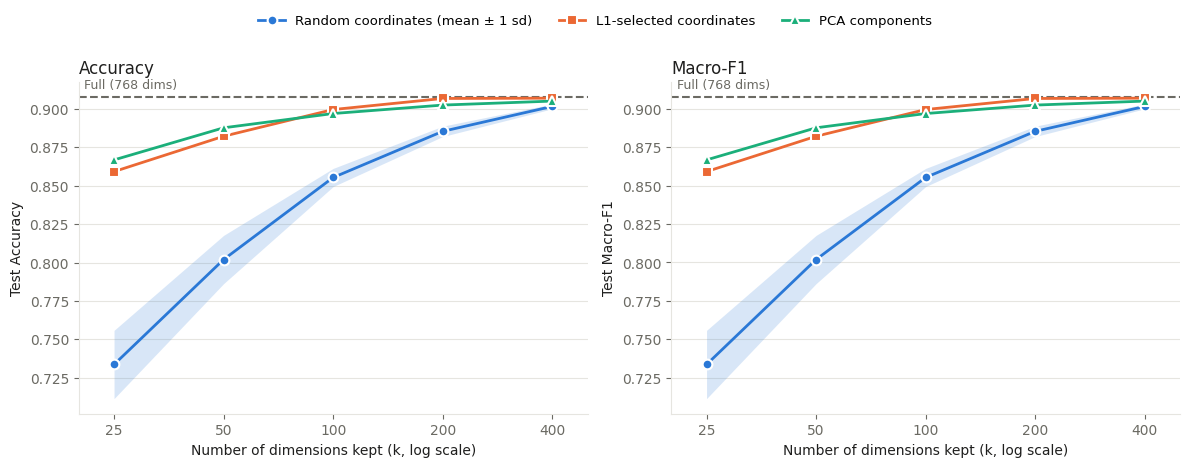
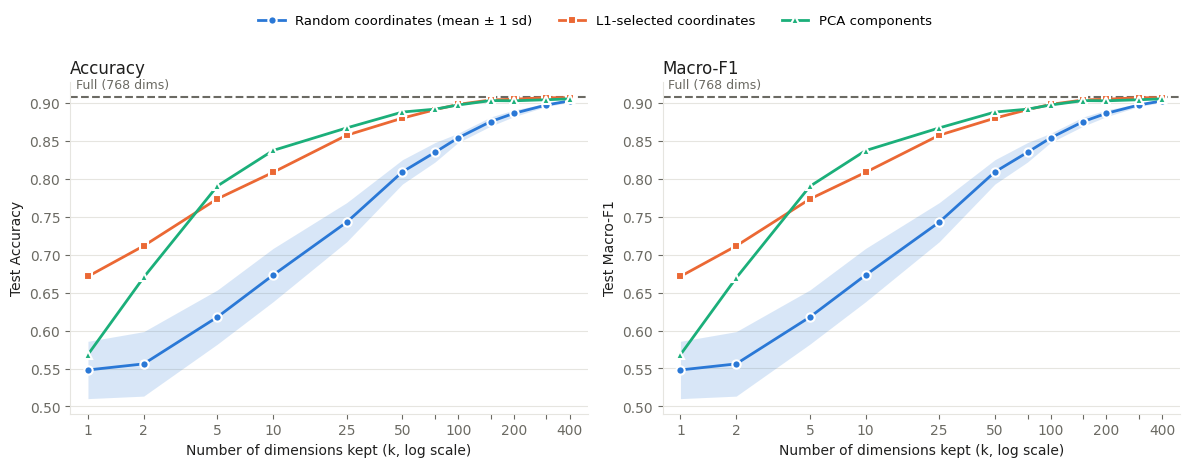
revised page

diff --git a/docs/index.html b/docs/index.html
@@ -210,7 +210,7 @@
   <div class="setup">
     <div><strong>Data</strong>Amazon Review Polarity: 20,000 training and 10,000 test reviews, half positive and half negative.</div>
     <div><strong>Representation</strong>Frozen <code>bert-base-uncased</code>, one 768-dimensional embedding per review. The encoder is never fine-tuned.</div>
-    <div><strong>Comparison</strong>Shrink each embedding to k = 25, 50, 100, 200 or 400 dimensions three different ways, then classify with the same logistic regression.</div>
+    <div><strong>Comparison</strong>Shrink each embedding to k = 1, 2, 5, 10, 25, 50, 75, 100, 150, 200, 300 or 400 dimensions three different ways, then classify with the same logistic regression.</div>
   </div>
 </div>
 
@@ -332,7 +332,7 @@
     <p>Here h<sub>it</sub> is the vector for token t and a<sub>it</sub> is 1 for real tokens and 0 for padding. This gives a 20,000 × 768 training matrix and a 10,000 × 768 test matrix, computed once and reused by every experiment.</p>
 
     <h3>Representation reduction</h3>
-    <p>Each coordinate is first standardized with its training mean and standard deviation, and the same transform is applied to the test set. We then compare reduced sizes k = 25, 50, 100, 200 and 400 against the full 768-dimensional baseline.</p>
+    <p>Each coordinate is first standardized with its training mean and standard deviation, and the same transform is applied to the test set. We then compare reduced sizes k = 1, 2, 5, 10, 25, 50, 75, 100, 150, 200, 300 and 400 against the full 768-dimensional baseline.</p>
     <div class="methods">
       <div class="m random">
         <h4>Random coordinates</h4>
@@ -341,7 +341,7 @@
       </div>
       <div class="m l1">
         <h4>L1-selected coordinates</h4>
-        <p>Fit L1-regularized logistic regression on the training set along a path of 17 penalty values.</p>
+        <p>Fit L1-regularized logistic regression on the training set along a path of 33 penalty values.</p>
         <p>For each k, take the strongest penalty that leaves at least k nonzero coefficients and keep the k with the largest absolute weights.</p>
       </div>
       <div class="m pca">
@@ -379,16 +379,10 @@
     </figure>
 
     <h3>Classification performance</h3>
-    <p>With all 768 dimensions the classifier reaches <b>90.80%</b> test accuracy (macro-F1 0.9080). Accuracy rises with k for every method. Both L1 selection and PCA beat the average random subset at every size, and the gap is largest when k is small: at k = 25, L1 reaches 85.92% against 73.36% for random selection, a 12.56 point advantage. PCA is slightly ahead of L1 at k = 25 and 50; L1 is ahead from k = 100 on.</p>
+    <p>With all 768 dimensions the classifier reaches <b>90.80%</b> test accuracy (macro-F1 0.9080). Accuracy generally rises with k for every method. Both L1 selection and PCA beat the average random subset at every size, and the gap is largest when k is small: at k = 5, L1 reaches 77.34% against 61.77% for random selection, a 15.57 point advantage. L1 is ahead of PCA at k = 1 and 2, PCA is ahead from k = 5 through 75, and L1 is slightly ahead from k = 100 on.</p>
     <figure>
-      <div class="legend">
-        <span><i style="background:var(--random)"></i>Random coordinates, mean ± 1 sd over 20 draws</span>
-        <span><i style="background:var(--l1)"></i>L1-selected coordinates</span>
-        <span><i style="background:var(--pca)"></i>PCA components</span>
-        <span><i class="dash"></i>Full 768</span>
-      </div>
-      <div class="chartwrap"><svg id="chartAcc" role="img" aria-label="Test accuracy against number of dimensions kept for random, L1 and PCA"></svg><div class="tip"></div></div>
-      <figcaption><b>Figure 4.</b> Test accuracy against dimensions kept (log scale). Hover or tap for exact values. Macro-F1 follows the same pattern to within 0.01 points, since the test set is balanced.</figcaption>
+      <img src="assets/fig4_accuracy_vs_k.png" alt="Test accuracy and macro-F1 against dimensions kept for random coordinate selection, L1 selection and PCA, at 12 sizes from k = 1 to 400 on a log scale. Random selection shows mean plus or minus one standard deviation across 20 draws; dashed lines mark the full 768-dimensional baseline.">
+      <figcaption><b>Figure 4.</b> Test accuracy (left) and macro-F1 (right) against dimensions kept (log scale). The shaded band shows ±1 sample standard deviation across 20 random draws. Macro-F1 follows the same overall pattern as accuracy.</figcaption>
     </figure>
     <div class="tablewrap">
       <table id="tableAcc">
@@ -399,7 +393,7 @@
     <p class="tcap">Table 3. Test accuracy (%). Random is mean ± sample sd across 20 subsets. Bold marks the best reduced method at each k.</p>
 
     <h3>Performance loss relative to the full representation</h3>
-    <p>L1 selection keeps most of the baseline performance with far fewer coordinates. At k = 100 it keeps about 13% of the coordinates and loses 0.84 points. At k = 200 it keeps about 26% and is only 0.12 points below the baseline. The gains then flatten: going from 100 to 200 coordinates adds 0.72 points, but going from 200 to 400 adds only 0.02. PCA also closes in, reaching 90.51% with 400 components.</p>
+    <p>L1 selection keeps most of the baseline performance with far fewer coordinates. At k = 100 it keeps about 13% of the coordinates and loses 1.02 points. At k = 200 it keeps about 26% and is 0.34 points below the baseline. The gains then flatten: going from 100 to 200 coordinates adds 0.68 points, while going from 200 to 400 adds 0.19. The best tested L1 result is 90.66% at k = 300, 0.14 points below the baseline. PCA also closes in, reaching 90.51% with 400 components.</p>
     <figure>
       <div class="legend">
         <span><i style="background:var(--random)"></i>Random (mean)</span>
@@ -411,7 +405,7 @@
     </figure>
 
     <h3>Variability across random subsets</h3>
-    <p>Random selection improves from 73.36% at k = 25 to 90.16% at k = 400, and its spread shrinks from a standard deviation of 2.22 points to 0.15. Small random subsets are a gamble on which coordinates you happen to draw; large ones give consistent results that approach the baseline, though they stay below L1 and PCA on average.</p>
+    <p>Random selection improves from 54.81% at k = 1 to 90.25% at k = 400. Its standard deviation is 3.77 points at k = 1, peaks at 4.24 points at k = 2, and then falls to 0.19 points at k = 400. Small random subsets are a gamble on which coordinates you happen to draw; large ones give consistent results that approach the baseline, though they stay below L1 and PCA on average.</p>
     <figure>
       <div class="legend">
         <span><i class="dot" style="background:var(--random)"></i>One random draw (20 per k)</span>
@@ -420,7 +414,7 @@
         <span><i class="dot" style="background:var(--pca)"></i>PCA</span>
       </div>
       <div class="chartwrap"><svg id="chartRuns" role="img" aria-label="Test accuracy of each of the 20 random coordinate subsets at every k, with the L1 and PCA results for comparison"></svg><div class="tip"></div></div>
-      <figcaption><b>Figure 6.</b> Every one of the 20 random draws at each k. The spread narrows as k grows. Even the best of the 20 draws scores below both L1 and PCA at every k, though only by 0.06 points against PCA at k = 400.</figcaption>
+      <figcaption><b>Figure 6.</b> Every one of the 20 random draws at each k. The spread generally narrows as k grows. At k = 1, the best random draw ties L1 and exceeds PCA. From k = 2 through 300, even the best draw is below both methods. At k = 400, the best draw reaches 90.63%, above PCA at 90.51% but just below L1 at 90.65%.</figcaption>
     </figure>
     <div class="tablewrap">
       <table id="tableRange">
@@ -428,7 +422,7 @@
         <tbody></tbody>
       </table>
     </div>
-    <p class="tcap">Table 5 (report appendix). Lowest and highest test accuracy (%) among the 20 random subsets.</p>
+    <p class="tcap">Table 5. Lowest and highest test accuracy (%) among the 20 random subsets.</p>
   </section>
 
   <!-- 4 DISCUSSION -->
@@ -439,14 +433,14 @@
     <ul class="points">
       <li><b>A smaller representation can keep most of the performance, but the choice of coordinates matters.</b> L1 selection beats the average random subset at every size, most of all when k is small, so supervised selection does find coordinates that carry more useful information than an arbitrary subset.</li>
       <li><b>Distributed signal and redundancy coexist.</b> Hundreds of coordinates are individually correlated with sentiment, yet 200 selected ones nearly match the full baseline. That does not make the embeddings sparse or the other coordinates useless; their information may overlap with what is kept. The selected coordinates also depend on the embedding basis, so they are not a universal set of sentiment features.</li>
-      <li><b>PCA is a competitive alternative.</b> It edges out L1 at k = 25 and 50, where packing many coordinates into a few directions helps, while L1 is slightly ahead at larger sizes. PCA keeps variance rather than optimizing for prediction, as Figure 3 shows with PC4 beating PC1. The gaps are small enough that neither method is clearly better in general.</li>
+      <li><b>PCA is a competitive alternative.</b> It outperforms L1 from k = 5 through 75, while L1 leads at k = 1 and 2 and is slightly ahead from k = 100 onward. PCA keeps variance rather than optimizing for prediction, as Figure 3 shows with PC4 beating PC1. The preferred method depends on k; these results do not establish a general winner across tasks.</li>
     </ul>
 
     <h3>Limitations and future work</h3>
     <ul class="points">
       <li>One balanced sample, one frozen BERT model, mean pooling and a linear classifier. Results may differ for other tasks, models or pooling. Exact-text deduplication does not rule out near-duplicate reviews.</li>
       <li>L1 selection and PCA are fitted on the whole training set before cross-validation, so validation scores may be optimistic. A cleaner version would refit standardization, selection and PCA inside each fold.</li>
-      <li>The random-subset spread measures sensitivity to coordinate choice on fixed data, not uncertainty over new samples, and L1 and PCA stability across samples is not assessed. Close scores such as 90.68% and 90.80% should not be read as statistically equivalent.</li>
+      <li>The random-subset spread measures sensitivity to coordinate choice on fixed data, not uncertainty over new samples, and L1 and PCA stability across samples is not assessed. Close scores such as 90.66% and 90.80% should not be read as statistically equivalent.</li>
       <li>Reduction happens after BERT has already run. It shrinks stored features and the classifier, not transformer inference cost.</li>
       <li>Next steps: fix the cross-validation procedure, repeat the analysis on new data samples, add more tasks, and compare test predictions pairwise to measure how uncertain the gaps are.</li>
     </ul>
@@ -455,7 +449,7 @@
   <!-- 5 CONCLUSION -->
   <section class="s" id="conclusion">
     <h2><span class="n">5</span>Conclusion</h2>
-    <p class="conclusion">Frozen BERT embeddings can be shrunk a lot for Amazon Polarity sentiment classification. L1 selection keeps 200 of 768 coordinates and reaches 90.68% accuracy, against 90.80% with all of them. Both L1 selection and PCA beat average random selection at every size tested, with PCA slightly ahead at the smallest sizes. The results support task-specific predictive redundancy and show that informed reduction preserves performance better than removing coordinates at random. They do not establish universal sparsity or an optimal dimension for transformer representations.</p>
+    <p class="conclusion">Frozen BERT embeddings can be shrunk a lot for Amazon Polarity sentiment classification. L1 selection keeps 200 of 768 coordinates and reaches 90.46% accuracy, against 90.80% with all of them; its best tested result is 90.66% at k = 300. Both L1 selection and PCA beat average random selection at every size tested. L1 leads PCA at k = 1 and 2, PCA leads from k = 5 through 75, and L1 is slightly ahead from k = 100 onward. The results support task-specific predictive redundancy and show that informed reduction preserves performance better than removing coordinates at random. They do not establish universal sparsity or an optimal dimension for transformer representations.</p>
   </section>
 
   <!-- REPRODUCE -->
@@ -491,26 +485,30 @@
 
 <script>
 (function () {
-  // ===== Results data (from the notebook run log; add new k values here) =====
+  // ===== Results data from the updated notebook run log =====
   const FULL = 0.9080;
-  const L1  = { 25: 0.8592, 50: 0.8822, 100: 0.8996, 200: 0.9068, 400: 0.9070 };
-  const PCA = { 25: 0.8668, 50: 0.8877, 100: 0.8970, 200: 0.9025, 400: 0.9051 };
+  const L1  = { 1: 0.6713, 2: 0.7115, 5: 0.7734, 10: 0.8083, 25: 0.8572, 50: 0.8797, 75: 0.8908, 100: 0.8978, 150: 0.9036, 200: 0.9046, 300: 0.9066, 400: 0.9065 };
+  const PCA = { 1: 0.5684, 2: 0.6700, 5: 0.7903, 10: 0.8371, 25: 0.8668, 50: 0.8877, 75: 0.8915, 100: 0.8970, 150: 0.9028, 200: 0.9025, 300: 0.9039, 400: 0.9051 };
   const RUNS = {
-    25:  [0.7469,0.6899,0.7486,0.7612,0.7264,0.7419,0.7618,0.7228,0.6833,0.7628,0.7168,0.7354,0.7218,0.7122,0.7515,0.7494,0.7170,0.7391,0.7392,0.7438],
-    50:  [0.8130,0.8066,0.7818,0.8270,0.8189,0.7698,0.8274,0.8108,0.7872,0.7948,0.7849,0.7996,0.8116,0.7855,0.8199,0.8072,0.7993,0.7972,0.7902,0.8060],
-    100: [0.8582,0.8576,0.8588,0.8580,0.8626,0.8573,0.8560,0.8555,0.8546,0.8576,0.8491,0.8523,0.8562,0.8444,0.8614,0.8589,0.8395,0.8525,0.8522,0.8643],
-    200: [0.8866,0.8881,0.8861,0.8871,0.8907,0.8820,0.8843,0.8848,0.8798,0.8882,0.8860,0.8828,0.8888,0.8801,0.8891,0.8807,0.8823,0.8893,0.8827,0.8884],
-    400: [0.8999,0.9032,0.9030,0.9023,0.9039,0.9026,0.8994,0.9018,0.9045,0.9011,0.9002,0.9009,0.9017,0.9008,0.9028,0.8993,0.8997,0.9015,0.9006,0.9034]
+    1: [0.5668,0.6713,0.5413,0.5659,0.5224,0.5074,0.5103,0.5714,0.5364,0.5290,0.5295,0.5548,0.5132,0.5649,0.5361,0.5466,0.5329,0.5974,0.5562,0.5080],
+    2: [0.5442,0.6189,0.5292,0.5639,0.5259,0.6008,0.6119,0.5343,0.4996,0.6555,0.5767,0.5288,0.5224,0.5317,0.5376,0.5893,0.5895,0.5134,0.5089,0.5393],
+    5: [0.5944,0.6733,0.5651,0.6769,0.6166,0.6773,0.6380,0.5869,0.6239,0.6137,0.6331,0.5580,0.6069,0.5751,0.6452,0.5712,0.6082,0.6353,0.6325,0.6226],
+    10: [0.6958,0.7027,0.7069,0.6739,0.6430,0.7013,0.6324,0.6929,0.6229,0.6910,0.7025,0.6559,0.6751,0.6865,0.7003,0.6643,0.6517,0.7163,0.6701,0.5743],
+    25: [0.7071,0.7905,0.7698,0.7532,0.7462,0.7042,0.7185,0.7537,0.7404,0.7306,0.7534,0.7139,0.7461,0.7695,0.7629,0.7839,0.7276,0.7140,0.7546,0.7132],
+    50: [0.8230,0.8086,0.8209,0.8084,0.7955,0.7997,0.8151,0.7927,0.7776,0.8472,0.8151,0.7957,0.8162,0.8228,0.7842,0.8123,0.7955,0.8127,0.8107,0.8245],
+    75: [0.8525,0.8067,0.8462,0.8364,0.8438,0.8183,0.8220,0.8396,0.8280,0.8378,0.8435,0.8341,0.8162,0.8246,0.8353,0.8540,0.8315,0.8539,0.8376,0.8320],
+    100: [0.8393,0.8455,0.8509,0.8543,0.8615,0.8520,0.8527,0.8516,0.8590,0.8597,0.8572,0.8631,0.8494,0.8537,0.8535,0.8487,0.8585,0.8517,0.8483,0.8630],
+    150: [0.8813,0.8754,0.8807,0.8711,0.8735,0.8610,0.8759,0.8751,0.8615,0.8760,0.8806,0.8764,0.8791,0.8723,0.8818,0.8739,0.8775,0.8732,0.8722,0.8851],
+    200: [0.8851,0.8915,0.8785,0.8766,0.8827,0.8857,0.8902,0.8876,0.8847,0.8844,0.8832,0.8894,0.8875,0.8816,0.8850,0.8930,0.8849,0.8881,0.8862,0.8936],
+    300: [0.8978,0.9002,0.8976,0.8958,0.8960,0.8968,0.8960,0.8963,0.8981,0.9000,0.8980,0.8922,0.8949,0.9000,0.8993,0.8985,0.8965,0.8959,0.8953,0.8957],
+    400: [0.8996,0.9048,0.9007,0.9047,0.9013,0.9017,0.9034,0.9010,0.9030,0.9063,0.9011,0.9014,0.9034,0.9039,0.9017,0.9009,0.8993,0.9017,0.9038,0.9053]
   };
   const KS = Object.keys(L1).map(Number).sort((a, b) => a - b);
   const mean = a => a.reduce((s, v) => s + v, 0) / a.length;
   const sd = a => { const m = mean(a); return Math.sqrt(a.reduce((s, v) => s + (v - m) ** 2, 0) / (a.length - 1)); };
-  // Mean and sd come from the notebook's summary.csv (unrounded runs), so they match Table 3 exactly.
-  // The run log above is rounded to 4 decimals and is used for the dots, minimum and maximum.
-  const RAND_SUMMARY = { 25: [0.7336, 0.0222], 50: [0.8019, 0.0157], 100: [0.8554, 0.0059], 200: [0.8854, 0.0034], 400: [0.9016, 0.0015] };
+  // Accuracy is exact to four decimals on the 10,000-review test set.
   const RAND = {}; KS.forEach(k => RAND[k] = {
-    mean: RAND_SUMMARY[k] ? RAND_SUMMARY[k][0] : mean(RUNS[k]),
-    sd: RAND_SUMMARY[k] ? RAND_SUMMARY[k][1] : sd(RUNS[k]),
+    mean: mean(RUNS[k]), sd: sd(RUNS[k]),
     min: Math.min(...RUNS[k]), max: Math.max(...RUNS[k]) });
   window.__RESULTS = { KS, RAND, L1, PCA, FULL };
 
@@ -557,7 +555,8 @@
         el('line', { x1: m.l, x2: W - m.r, y1: yOf(v), y2: yOf(v), stroke: C.grid, 'stroke-width': 1 });
         el('text', { x: m.l - 8, y: yOf(v) + 4, 'text-anchor': 'end', 'font-size': fs, fill: C.ink3 }).textContent = cfg.yFmt(v);
       });
-      KS.forEach(k => el('text', { x: xOf(k), y: H - 24, 'text-anchor': 'middle', 'font-size': fs, fill: C.ink3 }).textContent = k);
+      const labelKs = small ? [1, 5, 25, 100, 400] : (cfg.logLabels ? [1, 2, 5, 10, 25, 50, 100, 200, 400] : KS);
+      KS.filter(k => labelKs.includes(k)).forEach(k => el('text', { x: xOf(k), y: H - 24, 'text-anchor': 'middle', 'font-size': fs, fill: C.ink3 }).textContent = k);
       el('text', { x: m.l + pw / 2, y: H - 4, 'text-anchor': 'middle', 'font-size': fs, fill: C.ink2 }).textContent = cfg.xLabel;
       if (cfg.yTitle) el('text', { x: m.l - 8, y: 14, 'font-size': fs, fill: C.ink2 }).textContent = cfg.yTitle;
       cfg.render(el, { W, H, m, pw, ph, xOf, yOf, fs, small });
@@ -594,38 +593,15 @@
     lab.forEach(o => el('text', { x: xOf(KS[KS.length - 1]) + 10, y: o.y, 'font-size': fs, fill: C.ink2 }).textContent = o.t);
   }
 
-  // ===== Figure 4: accuracy vs k =====
-  makeChart(document.getElementById('chartAcc'), {
-    height: s => s ? 340 : 400,
-    xOf: logX,
-    yOf: (t, ph) => v => t + (0.92 - v) / (0.92 - 0.70) * ph,
-    yTicks: [0.70, 0.75, 0.80, 0.85, 0.90],
-    yFmt: v => (v * 100).toFixed(0) + '%',
-    xLabel: 'dimensions kept, k (log scale)',
-    render(el, g) {
-      const { xOf, yOf, W, m, fs } = g;
-      el('line', { x1: m.l, x2: W - m.r, y1: yOf(FULL), y2: yOf(FULL), stroke: C.ink, 'stroke-width': 2, 'stroke-dasharray': '6 5' });
-      el('text', { x: m.l + 6, y: yOf(FULL) - 8, 'font-size': fs, fill: C.ink, 'font-weight': 600 }).textContent = 'Full 768 dimensions: 90.80%';
-      const band = KS.map(k => `${xOf(k)},${yOf(RAND[k].mean + RAND[k].sd)}`).concat(KS.slice().reverse().map(k => `${xOf(k)},${yOf(RAND[k].mean - RAND[k].sd)}`)).join(' ');
-      el('polygon', { points: band, fill: C.random, 'fill-opacity': 0.15 });
-      [['random', k => RAND[k].mean, 'circle'], ['l1', k => L1[k], 'square'], ['pca', k => PCA[k], 'triangle']].forEach(([key, f, shape]) => {
-        el('polyline', { points: KS.map(k => `${xOf(k)},${yOf(f(k))}`).join(' '), fill: 'none', stroke: C[key], 'stroke-width': 2.5, 'stroke-linejoin': 'round' });
-        KS.forEach(k => marker(el, shape, xOf(k), yOf(f(k)), C[key]));
-      });
-      const kl = KS[KS.length - 1];
-      endLabels(el, xOf, [{ t: 'L1', y: yOf(L1[kl]) }, { t: 'PCA', y: yOf(PCA[kl]) }, { t: 'Random', y: yOf(RAND[kl].mean) }], fs);
-    },
-    tip: k => row(C.l1, 'L1-selected', pct(L1[k])) + row(C.pca, 'PCA', pct(PCA[k])) + row(C.random, 'Random mean', `${pct(RAND[k].mean)} ± ${p2(RAND[k].sd)}`) + row(C.ink, 'Full 768', pct(FULL))
-  });
-
   // ===== Figure 5: loss vs full (log y) =====
   const LOSS = { l1: k => (FULL - L1[k]) * 100, pca: k => (FULL - PCA[k]) * 100, random: k => (FULL - RAND[k].mean) * 100 };
-  const lo = 0.05, hi = 30;
+  const lo = 0.05, hi = 50;
   makeChart(document.getElementById('chartLoss'), {
     height: s => s ? 320 : 360,
     xOf: logX,
+    logLabels: true,
     yOf: (t, ph) => v => t + (Math.log(hi) - Math.log(v)) / (Math.log(hi) - Math.log(lo)) * ph,
-    yTicks: [0.1, 0.3, 1, 3, 10, 30],
+    yTicks: [0.1, 0.3, 1, 3, 10, 30, 50],
     yFmt: v => String(v),
     yTitle: 'points below full 768',
     xLabel: 'dimensions kept, k (log scale)',
@@ -645,8 +621,8 @@
   makeChart(document.getElementById('chartRuns'), {
     height: s => s ? 360 : 420,
     xOf: (l, pw) => k => l + (KS.indexOf(k) + 0.5) / KS.length * pw,
-    yOf: (t, ph) => v => t + (0.92 - v) / (0.92 - 0.66) * ph,
-    yTicks: [0.70, 0.75, 0.80, 0.85, 0.90],
+    yOf: (t, ph) => v => t + (0.92 - v) / (0.92 - 0.48) * ph,
+    yTicks: [0.50, 0.60, 0.70, 0.80, 0.90],
     yFmt: v => (v * 100).toFixed(0) + '%',
     xLabel: 'dimensions kept, k',
     render(el, g) {
